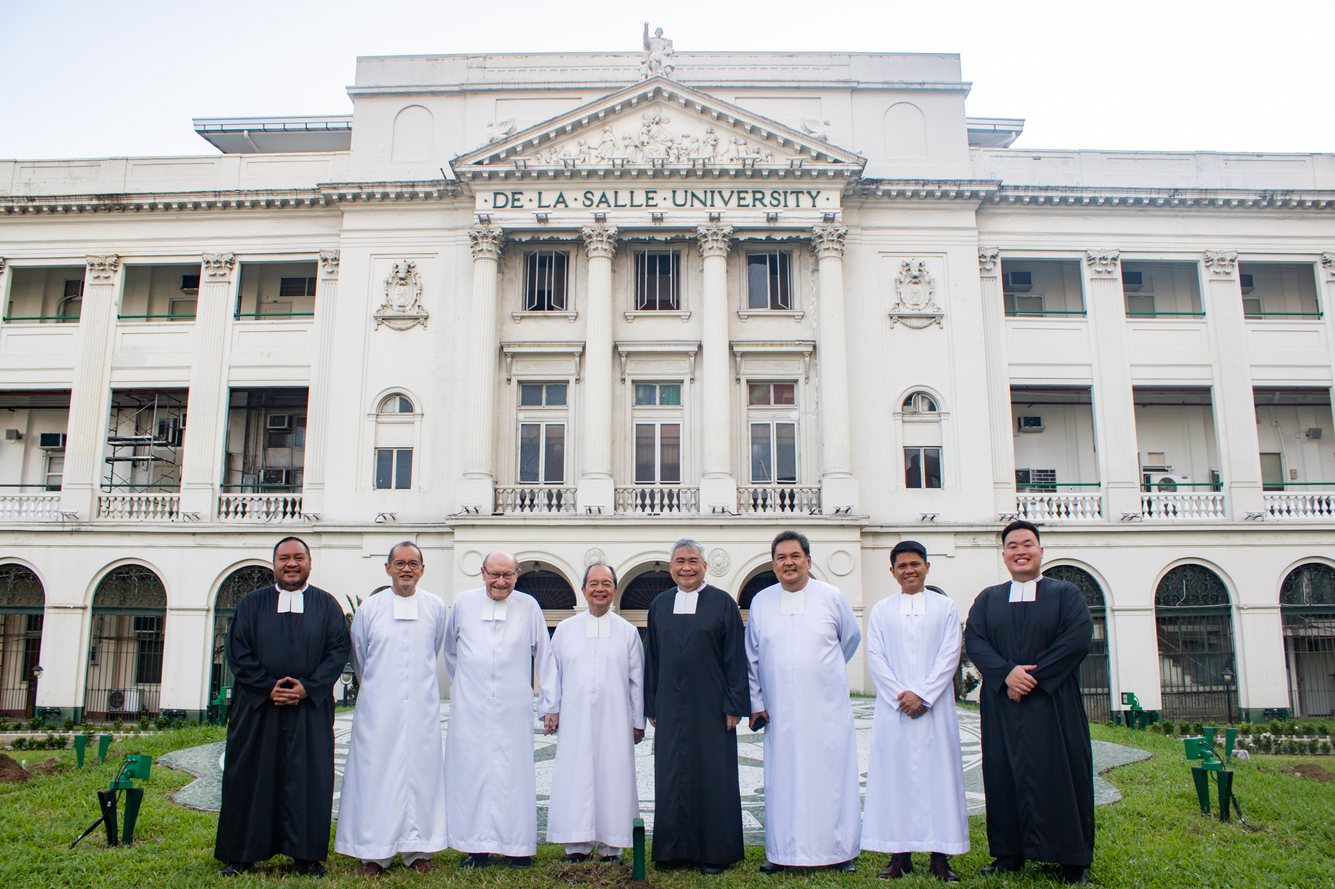
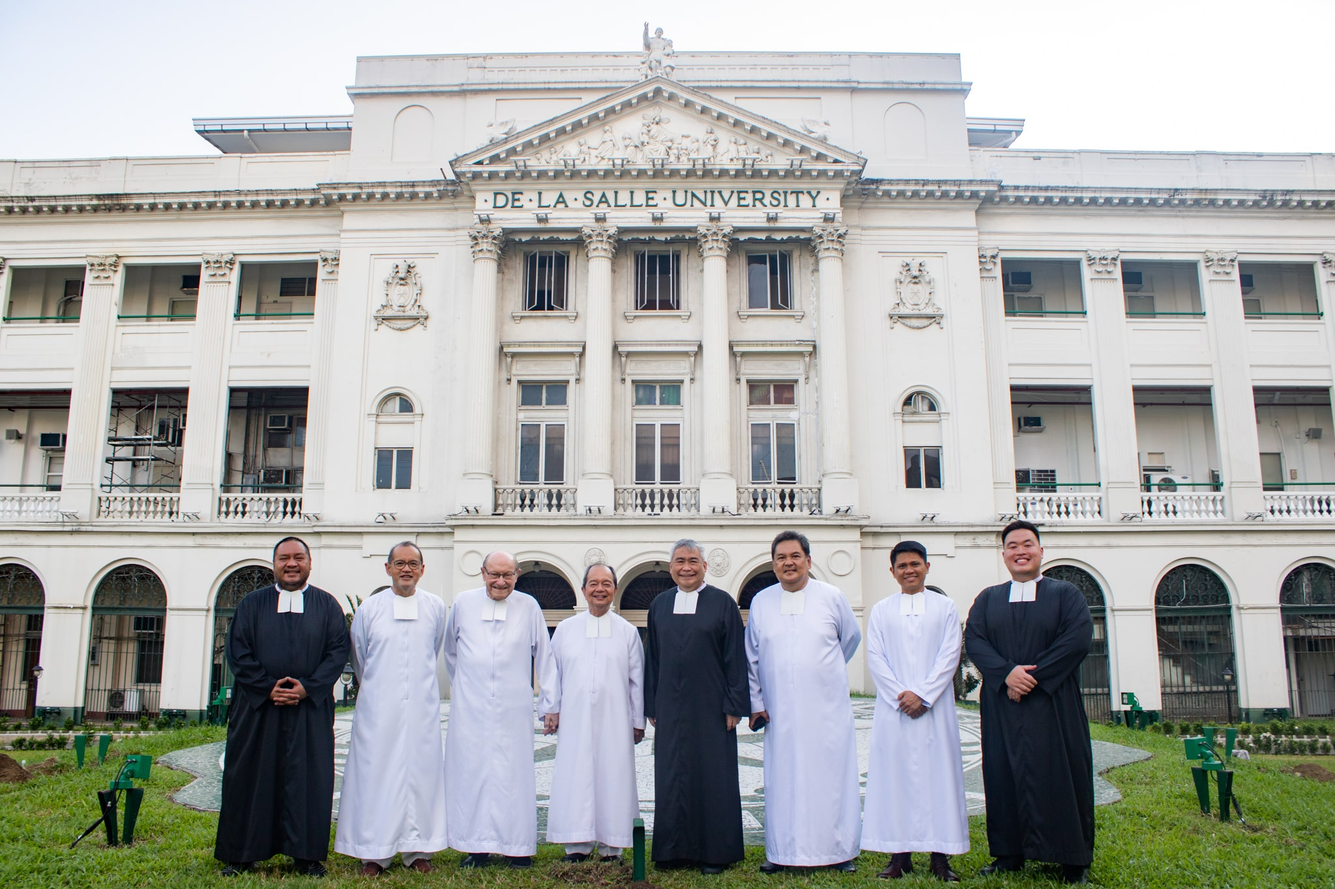
Use optimized images + reorganize assets folder

diff --git a/css/css.css b/css/css.css
@@ -236,7 +236,7 @@ header div.background {
 */
 
 .timeline-section {
-    background-image: url(/assets/dls_Canon_Hotelbg-2.jpg);
+    background-image: url(/assets/timeline/dls_Canon_Hotelbg-2.jpg);
     background-position-y: 10%;
     height: 40vh;
 }
@@ -304,7 +304,7 @@ div.timeline-title {
 }
 
 div.timeline-modal {
-    display: none; /* hidden by default */
+    display: flex; /* hidden by default */
     flex-direction: column;
     align-content: center;
     align-items: center;
@@ -327,18 +327,16 @@ div.timeline-modal::-webkit-scrollbar {
 div.timeline-modal .card-container {
     width: 80%;
     display: flex;
-    justify-content: space-between;
-    flex-direction: row;
-    flex-wrap: wrap;
+    flex-direction: column;
+    align-items: center;
     padding: 2em;
 }
-
 
 div.card-container .timeline-card {
     display: flex;
     flex-direction: column;
-    width: 25em;
-    height: min-content;
+    max-width: 30em;
+    max-height: max-content;
     border: 4px solid white;
     border-radius: 16px;
     overflow: hidden; /* Makes sure the image fits in the rounded card */
@@ -362,8 +360,8 @@ div.timeline-card .text-container {
     margin: auto;
     color: black;
     font-weight: 700;
-    font-size: 48px;
-    line-height: 90px;
+    font-size: 42px;
+    line-height: 80px;
 }
 
 .text-container p {

diff --git a/js/community_carousel.js b/js/community_carousel.js
@@ -59,7 +59,7 @@ const communities = [
 
 function getImageAsset(image_path) {
    placeholder_url = "assets/dlsp-placeholder.png"
-   comm_image_url = `assets/${image_path}`   
+   comm_image_url = `assets/communities/${image_path}`
    if (image_path !== null) {
       return comm_image_url;
    }

diff --git a/php/components/timeline.php b/php/components/timeline.php
@@ -6,7 +6,7 @@
    </div>
 </div>
 <!-- Hidden initially -->
-<div class="timeline-modal" id="timelineModal">
+<div class="timeline-modal" id="timelineModal" hidden>
    <!--Title-->
    <div class="timeline-title">
       <h1>
@@ -16,37 +16,37 @@
    </div>
    <!--Timeline proper-->
    <div class="card-container">
-      <div class="timeline-card">
-         <img src="assets/dls_Canon_Hotelbg-2.jpg"></img>
-         <div class="text-container">
-            <h2>1651</h2>
-            <p>A man named John Baptist de La Salle was born on April 30, 1651 in Reims, Champagne, France. Being born into a noble family, he was able to attain higher education that was difficult to acquire at the time due to high poverty rates. De La Salle dreamed of and eventually became a priest.</p>
+         <div class="timeline-card">
+            <img src="assets/timeline/dls_Canon_Hotelbg-2.jpg"></img>
+            <div class="text-container">
+               <h2>1651</h2>
+               <p>A man named John Baptist de La Salle was born on April 30, 1651 in Reims, Champagne, France. Being born into a noble family, he was able to attain higher education that was difficult to acquire at the time due to high poverty rates. De La Salle dreamed of and eventually became a priest.</p>
+            </div>
          </div>
-      </div>
-      <div class="timeline-card">
-         <img src="assets/dls_Canon_Hotelbg-2.jpg"></img>
-         <div class="text-container">
-            <h2>1651</h2>
-            <p>A man named John Baptist de La Salle was born on April 30, 1651 in Reims, Champagne, France. Being born into a noble family, he was able to attain higher education that was difficult to acquire at the time due to high poverty rates. De La Salle dreamed of and eventually became a priest. A man named John Baptist de La Salle was born on April 30, 1651 in Reims, Champagne, France. Being born into a noble family, he was able to attain higher education that was difficult to acquire at the time due to high poverty rates. De La Salle dreamed of and eventually became a priest.</p>
+         <div class="timeline-card">
+            <img src="assets/timeline/dls_Canon_Hotelbg-2.jpg"></img>
+            <div class="text-container">
+               <h2>1679</h2>
+               <p>John Baptist de La Salle encountered Adrian Nyel, a layman who aims to provide schooling for the poor, while working with the Sisters of the Child Jesus. After hearing Nyel’s intentions and his request for help, De La Salle pursued to be involved in the education for the poor which ended up become his life's work.</p>
+            </div>
          </div>
-      </div>
-      <div class="timeline-card">
-         <img src="assets/dls_Canon_Hotelbg-2.jpg"></img>
-         <div class="text-container">
-            <h2>1651</h2>
-            <p>De La Salle dreamed of and eventually became a priest.</p>
+         <div class="timeline-card">
+            <img src="assets/timeline/dls_Canon_Hotelbg-2.jpg"></img>
+            <div class="text-container">
+               <h2>1680-1682</h2>
+               <p>De La Salle took steps in order to train a small group of teachers that lacked purpose and leadership. He invited them to eat at his home and eventually brought them to live with him. Due to the disturbed feelings of his family, he and his fellow teachers moved to a poor part of the city.</p>
+            </div>
          </div>
-      </div>
-      <div class="timeline-card">
-         <img src="assets/dls_Canon_Hotelbg-2.jpg"></img>
-         <div class="text-container">
-            <h2>1651</h2>
-            <p>Attain higher education that was difficult to acquire at the time due to high poverty rates. De La Salle dreamed of and eventually became a priest.</p>
+         <div class="timeline-card">
+            <img src="assets/timeline/dls_Canon_Hotelbg-2.jpg"></img>
+            <div class="text-container">
+               <h2>1683</h2>
+               <p>The teaching community under De La Salle’s guidance started to become more formalized. Around this time, De La Salle started to call this community “Brothers.” To be fully in one with his Brothers, he distributed all his wealth to the poor during a winter famine.</p>
+            </div>
          </div>
       </div>
    </div>
 </div>
-
 <script>
    function toggleTimeline() {
       

diff --git a/php/components/vox.php b/php/components/vox.php
@@ -2,70 +2,70 @@
     
     <div class="vox-icon px-auto mx-auto">
         <div class="vox-img vox-active" style="--i:1;" data-id="content1">
-            <img src="assets/DeLaSalleBrothers.jpg" alt="Brother #">
+            <img src="assets/articles/DeLaSalleBrothers.jpg" alt="Brother #">
         </div>
         <div class="vox-img" style="--i:2;" data-id="content2">
-            <img src="assets/DeLaSalleBrothers.jpg" alt="Brother #">
+            <img src="assets/articles/DeLaSalleBrothers.jpg" alt="Brother #">
         </div>
         <div class="vox-img" style="--i:3;" data-id="content3">
-            <img src="assets/DeLaSalleBrothers.jpg" alt="Brother #">
+            <img src="assets/articles/DeLaSalleBrothers.jpg" alt="Brother #">
         </div>
         <div class="vox-img" style="--i:4;" data-id="content4">
-            <img src="assets/DeLaSalleBrothers.jpg" alt="Brother #">
+            <img src="assets/articles/DeLaSalleBrothers.jpg" alt="Brother #">
         </div>
         <div class="vox-img" style="--i:5;" data-id="content5">
-            <img src="assets/DeLaSalleBrothers.jpg" alt="Brother #">
+            <img src="assets/articles/DeLaSalleBrothers.jpg" alt="Brother #">
         </div>
         <div class="vox-img" style="--i:6;" data-id="content6">
-            <img src="assets/DeLaSalleBrothers.jpg" alt="Brother #">
+            <img src="assets/articles/DeLaSalleBrothers.jpg" alt="Brother #">
         </div>
         <div class="vox-img" style="--i:7;" data-id="content7">
-            <img src="assets/DeLaSalleBrothers.jpg" alt="Brother #">
+            <img src="assets/articles/DeLaSalleBrothers.jpg" alt="Brother #">
         </div>
         <div class="vox-img" style="--i:8;" data-id="content8">
-            <img src="assets/DeLaSalleBrothers.jpg" alt="Brother #">
+            <img src="assets/articles/DeLaSalleBrothers.jpg" alt="Brother #">
         </div>
     </div>
 
     <div class="vox-content px-auto mx-auto">
         <div class="vox-contentBx vox-active" id="content1">
             <div class="vox-img">
-                <img src="assets/DeLaSalleBrothers.jpg" alt="Brother #">
+                <img src="assets/articles/DeLaSalleBrothers.jpg" alt="Brother #">
             </div>
         </div>
         <div class="vox-contentBx" id="content2">
             <div class="vox-img">
-                <img src="assets/DeLaSalleBrothers.jpg" alt="Brother #">
+                <img src="assets/articles/DeLaSalleBrothers.jpg" alt="Brother #">
             </div>
         </div>
         <div class="vox-contentBx" id="content3">
             <div class="vox-img">
-                <img src="assets/DeLaSalleBrothers.jpg" alt="Brother #">
+                <img src="assets/articles/DeLaSalleBrothers.jpg" alt="Brother #">
             </div>
         </div>
         <div class="vox-contentBx" id="content4">
             <div class="vox-img">
-                <img src="assets/DeLaSalleBrothers.jpg" alt="Brother #">
+                <img src="assets/articles/DeLaSalleBrothers.jpg" alt="Brother #">
             </div>
         </div>
         <div class="vox-contentBx" id="content5">
             <div class="vox-img">
-                <img src="assets/DeLaSalleBrothers.jpg" alt="Brother #">
+                <img src="assets/articles/DeLaSalleBrothers.jpg" alt="Brother #">
             </div>
         </div>
         <div class="vox-contentBx" id="content6">
             <div class="vox-img">
-                <img src="assets/DeLaSalleBrothers.jpg" alt="Brother #">
+                <img src="assets/articles/DeLaSalleBrothers.jpg" alt="Brother #">
             </div>
         </div>
         <div class="vox-contentBx" id="content7">
             <div class="vox-img">
-                <img src="assets/DeLaSalleBrothers.jpg" alt="Brother #">
+                <img src="assets/articles/DeLaSalleBrothers.jpg" alt="Brother #">
             </div>
         </div>
         <div class="vox-contentBx" id="content8">
             <div class="vox-img">
-                <img src="assets/DeLaSalleBrothers.jpg" alt="Brother #">
+                <img src="assets/articles/DeLaSalleBrothers.jpg" alt="Brother #">
             </div>
         </div>
     </div>

diff --git a/php/components/articles.php b/php/components/articles.php
@@ -8,7 +8,7 @@
     <div class="article row px-auto mx-auto">
         <div class="card col-sm">
             <a class="card-link" href="https://thelasallian.com/2022/05/20/best-of-both-worlds-into-the-de-la-salle-brothers-artistic-hobbies/">
-                <img class="card-img-top ac-visual" src="assets/Lasallian_Brothers_Art.png" alt="Lasallian Brothers Art">
+                <img class="card-img-top ac-visual" src="assets/articles/Lasallian_Brothers_Art.png" alt="Lasallian Brothers Art">
                 <div class="card-body">
                     <h5 class="card-title justify-content-center align-items-center text-center"><strong>Best of both worlds: Into the De La Salle Brothers' artistic hobbies</strong></h5>
                     <p class="card-text justify-content-center align-items-center text-center">For Br. Dodo, Br. Mario, and Br. Manny, art allows them to channel inner peace and their passion for positive social change.</p>
@@ -17,7 +17,7 @@
         </div>
         <div class="card col-sm">
             <a class="card-link" href="https://thelasallian.com/2013/08/07/the-de-la-salle-brothers-of-the-philippines/">
-                <img class="card-img-top ac-visual" src="assets/DeLaSalleBrothers.jpg" alt="Card image cap">
+                <img class="card-img-top ac-visual" src="assets/articles/DeLaSalleBrothers.jpg" alt="Card image cap">
                 <div class="card-body">
                     <h5 class="card-title justify-content-center align-items-center text-center"><strong>The De La Salle Brothers of the Philippines</strong></h5>
                     <p class="card-text justify-content-center align-items-center text-center">Learn more about the De La Salle Brothers in the Philippines.</p>
@@ -26,7 +26,7 @@
         </div>
         <div class="card col-sm">
             <a class="card-link" href="https://thelasallian.com/2022/10/26/archiving-the-lasallian-mission-in-the-philippines/">
-                <img class="card-img-top ac-visual" src="assets/Archiving-the-lasallian-mission.png" alt="Archiving the Lasallian Mission">
+                <img class="card-img-top ac-visual" src="assets/articles/Archiving-the-lasallian-mission.png" alt="Archiving the Lasallian Mission">
                 <div class="card-body">
                     <h5 class="card-title justify-content-center align-items-center text-center"><strong>Archiving the Lasallian mission in the Philippines</strong></h5>
                     <p class="card-text justify-content-center align-items-center text-center">Since their arrival on Philippine soil in 1911, the De La Salle Brothers have made their presence felt for over a century.</p>
